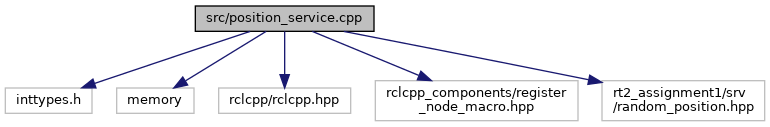
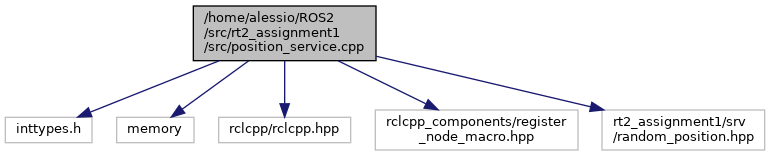
Update documentation

diff --git a/docs/html/state__machine_8cpp.html b/docs/html/state__machine_8cpp.html
@@ -5,7 +5,7 @@
 <meta http-equiv="X-UA-Compatible" content="IE=9"/>
 <meta name="generator" content="Doxygen 1.8.17"/>
 <meta name="viewport" content="width=device-width, initial-scale=1"/>
-<title>My Project: src/state_machine.cpp File Reference</title>
+<title>My Project: /home/alessio/ROS2/src/rt2_assignment1/src/state_machine.cpp File Reference</title>
 <link href="tabs.css" rel="stylesheet" type="text/css"/>
 <script type="text/javascript" src="jquery.js"></script>
 <script type="text/javascript" src="dynsections.js"></script>
@@ -89,21 +89,21 @@ $(function() {
 </div><div class="textblock"><div class="dynheader">
 Include dependency graph for state_machine.cpp:</div>
 <div class="dyncontent">
-<div class="center"><img src="state__machine_8cpp__incl.png" border="0" usemap="#src_2state__machine_8cpp" alt=""/></div>
-<map name="src_2state__machine_8cpp" id="src_2state__machine_8cpp">
-<area shape="rect" title="The state_machine node is a sort of the &quot;main&quot; in the entire architecture: it is connected with all t..." alt="" coords="511,5,679,32"/>
-<area shape="rect" title=" " alt="" coords="5,87,72,114"/>
-<area shape="rect" title=" " alt="" coords="97,87,183,114"/>
-<area shape="rect" title=" " alt="" coords="208,87,285,114"/>
-<area shape="rect" title=" " alt="" coords="310,87,397,114"/>
-<area shape="rect" title=" " alt="" coords="421,87,480,114"/>
-<area shape="rect" title=" " alt="" coords="504,87,587,114"/>
-<area shape="rect" title=" " alt="" coords="611,87,677,114"/>
-<area shape="rect" title=" " alt="" coords="701,87,833,114"/>
-<area shape="rect" title=" " alt="" coords="857,80,1060,121"/>
-<area shape="rect" title=" " alt="" coords="1084,80,1239,121"/>
-<area shape="rect" title=" " alt="" coords="1263,80,1417,121"/>
-<area shape="rect" title=" " alt="" coords="1441,80,1604,121"/>
+<div class="center"><img src="state__machine_8cpp__incl.png" border="0" usemap="#_2home_2alessio_2_r_o_s2_2src_2rt2__assignment1_2src_2state__machine_8cpp" alt=""/></div>
+<map name="_2home_2alessio_2_r_o_s2_2src_2rt2__assignment1_2src_2state__machine_8cpp" id="_2home_2alessio_2_r_o_s2_2src_2rt2__assignment1_2src_2state__machine_8cpp">
+<area shape="rect" title="The state_machine node is a sort of the &quot;main&quot; in the entire architecture: it is connected with all t..." alt="" coords="509,5,681,61"/>
+<area shape="rect" title=" " alt="" coords="5,117,72,143"/>
+<area shape="rect" title=" " alt="" coords="97,117,183,143"/>
+<area shape="rect" title=" " alt="" coords="208,117,285,143"/>
+<area shape="rect" title=" " alt="" coords="310,117,397,143"/>
+<area shape="rect" title=" " alt="" coords="421,117,480,143"/>
+<area shape="rect" title=" " alt="" coords="504,117,587,143"/>
+<area shape="rect" title=" " alt="" coords="611,117,677,143"/>
+<area shape="rect" title=" " alt="" coords="701,117,833,143"/>
+<area shape="rect" title=" " alt="" coords="857,109,1060,151"/>
+<area shape="rect" title=" " alt="" coords="1084,109,1239,151"/>
+<area shape="rect" title=" " alt="" coords="1263,109,1417,151"/>
+<area shape="rect" title=" " alt="" coords="1441,109,1604,151"/>
 </map>
 </div>
 </div><table class="memberdecls">

diff --git a/docs/html/position__service_8cpp.html b/docs/html/position__service_8cpp.html
@@ -5,7 +5,7 @@
 <meta http-equiv="X-UA-Compatible" content="IE=9"/>
 <meta name="generator" content="Doxygen 1.8.17"/>
 <meta name="viewport" content="width=device-width, initial-scale=1"/>
-<title>My Project: src/position_service.cpp File Reference</title>
+<title>My Project: /home/alessio/ROS2/src/rt2_assignment1/src/position_service.cpp File Reference</title>
 <link href="tabs.css" rel="stylesheet" type="text/css"/>
 <script type="text/javascript" src="jquery.js"></script>
 <script type="text/javascript" src="dynsections.js"></script>
@@ -82,14 +82,14 @@ $(function() {
 </div><div class="textblock"><div class="dynheader">
 Include dependency graph for position_service.cpp:</div>
 <div class="dyncontent">
-<div class="center"><img src="position__service_8cpp__incl.png" border="0" usemap="#src_2position__service_8cpp" alt=""/></div>
-<map name="src_2position__service_8cpp" id="src_2position__service_8cpp">
-<area shape="rect" title="The position_service.cpp provides a server that generates random positions in x, y,..." alt="" coords="195,5,374,32"/>
-<area shape="rect" title=" " alt="" coords="5,87,92,114"/>
-<area shape="rect" title=" " alt="" coords="117,87,194,114"/>
-<area shape="rect" title=" " alt="" coords="219,87,351,114"/>
-<area shape="rect" title=" " alt="" coords="375,80,578,121"/>
-<area shape="rect" title=" " alt="" coords="602,80,765,121"/>
+<div class="center"><img src="position__service_8cpp__incl.png" border="0" usemap="#_2home_2alessio_2_r_o_s2_2src_2rt2__assignment1_2src_2position__service_8cpp" alt=""/></div>
+<map name="_2home_2alessio_2_r_o_s2_2src_2rt2__assignment1_2src_2position__service_8cpp" id="_2home_2alessio_2_r_o_s2_2src_2rt2__assignment1_2src_2position__service_8cpp">
+<area shape="rect" title="The position_service.cpp provides a server that generates random positions in x, y,..." alt="" coords="193,5,376,61"/>
+<area shape="rect" title=" " alt="" coords="5,117,92,143"/>
+<area shape="rect" title=" " alt="" coords="117,117,194,143"/>
+<area shape="rect" title=" " alt="" coords="219,117,351,143"/>
+<area shape="rect" title=" " alt="" coords="375,109,578,151"/>
+<area shape="rect" title=" " alt="" coords="602,109,765,151"/>
 </map>
 </div>
 </div><table class="memberdecls">

diff --git a/docs/html/pages.html b/docs/html/pages.html
@@ -67,7 +67,7 @@ $(function() {
 <div class="contents">
 <div class="textblock">Here is a list of all related documentation pages:</div><div class="directory">
 <table class="directory">
-<tr id="row_0_" class="even"><td class="entry"><span style="width:16px;display:inline-block;">&#160;</span><a class="el" href="md__r_e_a_d_m_e.html" target="_self">First Assignment of the Research Track 2 course (action branch), Alessio Roda 4458313</a></td><td class="desc"></td></tr>
+<tr id="row_0_" class="even"><td class="entry"><span style="width:16px;display:inline-block;">&#160;</span><a class="el" href="md__home_alessio__r_o_s2_src_rt2_assignment1__r_e_a_d_m_e.html" target="_self">First Assignment of the Research Track 2 course (action branch), Alessio Roda 4458313</a></td><td class="desc"></td></tr>
 </table>
 </div><!-- directory -->
 </div><!-- contents -->

diff --git a/docs/html/search/pages_0.js b/docs/html/search/pages_0.js
@@ -1,4 +1,4 @@
 var searchData=
 [
-  ['first_20assignment_20of_20the_20research_20track_202_20course_20_28action_20branch_29_2c_20alessio_20roda_204458313_13',['First Assignment of the Research Track 2 course (action branch), Alessio Roda 4458313',['../md__r_e_a_d_m_e.html',1,'']]]
+  ['first_20assignment_20of_20the_20research_20track_202_20course_20_28action_20branch_29_2c_20alessio_20roda_204458313_13',['First Assignment of the Research Track 2 course (action branch), Alessio Roda 4458313',['../md__home_alessio__r_o_s2_src_rt2_assignment1__r_e_a_d_m_e.html',1,'']]]
 ];

diff --git a/docs/html/search/all_0.js b/docs/html/search/all_0.js
@@ -1,4 +1,4 @@
 var searchData=
 [
-  ['first_20assignment_20of_20the_20research_20track_202_20course_20_28action_20branch_29_2c_20alessio_20roda_204458313_0',['First Assignment of the Research Track 2 course (action branch), Alessio Roda 4458313',['../md__r_e_a_d_m_e.html',1,'']]]
+  ['first_20assignment_20of_20the_20research_20track_202_20course_20_28action_20branch_29_2c_20alessio_20roda_204458313_0',['First Assignment of the Research Track 2 course (action branch), Alessio Roda 4458313',['../md__home_alessio__r_o_s2_src_rt2_assignment1__r_e_a_d_m_e.html',1,'']]]
 ];

diff --git a/docs/html/dir_81025302fd592f43a2d7c4fbb7eea7b8.html b/docs/html/dir_81025302fd592f43a2d7c4fbb7eea7b8.html
@@ -5,7 +5,7 @@
 <meta http-equiv="X-UA-Compatible" content="IE=9"/>
 <meta name="generator" content="Doxygen 1.8.17"/>
 <meta name="viewport" content="width=device-width, initial-scale=1"/>
-<title>My Project: launch Directory Reference</title>
+<title>My Project: /home/alessio/ROS2/src/rt2_assignment1/launch Directory Reference</title>
 <link href="tabs.css" rel="stylesheet" type="text/css"/>
 <script type="text/javascript" src="jquery.js"></script>
 <script type="text/javascript" src="dynsections.js"></script>

diff --git a/docs/html/dir_68267d1309a1af8e8297ef4c3efbcdba.html b/docs/html/dir_68267d1309a1af8e8297ef4c3efbcdba.html
@@ -5,7 +5,7 @@
 <meta http-equiv="X-UA-Compatible" content="IE=9"/>
 <meta name="generator" content="Doxygen 1.8.17"/>
 <meta name="viewport" content="width=device-width, initial-scale=1"/>
-<title>My Project: src Directory Reference</title>
+<title>My Project: /home/alessio/ROS2/src/rt2_assignment1/src Directory Reference</title>
 <link href="tabs.css" rel="stylesheet" type="text/css"/>
 <script type="text/javascript" src="jquery.js"></script>
 <script type="text/javascript" src="dynsections.js"></script>

diff --git a/docs/html/classrt2__assignment1_1_1_random_server.html b/docs/html/classrt2__assignment1_1_1_random_server.html
@@ -126,7 +126,7 @@ Public Member Functions</h2></td></tr>
 </div>
 </div>
 <hr/>The documentation for this class was generated from the following file:<ul>
-<li>src/<a class="el" href="position__service_8cpp.html">position_service.cpp</a></li>
+<li>/home/alessio/ROS2/src/rt2_assignment1/src/<a class="el" href="position__service_8cpp.html">position_service.cpp</a></li>
 </ul>
 </div><!-- contents -->
 <!-- start footer part -->

diff --git a/docs/html/classrt2__assignment1_1_1_state_machine.html b/docs/html/classrt2__assignment1_1_1_state_machine.html
@@ -155,7 +155,7 @@ Public Member Functions</h2></td></tr>
 </div>
 </div>
 <hr/>The documentation for this class was generated from the following file:<ul>
-<li>src/<a class="el" href="state__machine_8cpp.html">state_machine.cpp</a></li>
+<li>/home/alessio/ROS2/src/rt2_assignment1/src/<a class="el" href="state__machine_8cpp.html">state_machine.cpp</a></li>
 </ul>
 </div><!-- contents -->
 <!-- start footer part -->

diff --git a/docs/latex/md__home_alessio__r_o_s2_src_rt2_assignment1__r_e_a_d_m_e.tex b/docs/latex/md__home_alessio__r_o_s2_src_rt2_assignment1__r_e_a_d_m_e.tex
@@ -1,6 +1,6 @@
 The purpose of this package is to create a simulation in which the robot follows some random positions generated by a random server and reach them. The robot can also stop if user order it, but only when it arrives in the last position that has to reach. In this branch respect to the main branch, the files \char`\"{}state\+\_\+machine.\+cpp\char`\"{} and \char`\"{}position\+\_\+service.\+cpp\char`\"{} are implemented as R\+O\+S2 component and the general architecture is divided in two parts\+: one developed with R\+O\+S2 component and the other one developed by maintaining the scripts of the main branch in R\+O\+S1. So by considering this, in order to run the code there will be an interaction between R\+O\+S1 and R\+O\+S2 that can be possible thanks to a \char`\"{}ros bridge\char`\"{}, if you haven\textquotesingle{}t installed it yet you can find the guide to download and install here\+: \href{https://github.com/ros2/ros1_bridge}{\texttt{ https\+://github.\+com/ros2/ros1\+\_\+bridge}}.
 
-Before start remember to download the rt2\+\_\+assignment1 main branch in your ros workspace, since as said before it\textquotesingle{}s necessary in order to run the code.~\hypertarget{md__r_e_a_d_m_e_autotoc_md1}{}\doxysection{Description of the architecture}\label{md__r_e_a_d_m_e_autotoc_md1}
+Before start remember to download the rt2\+\_\+assignment1 main branch in your ros workspace, since as said before it\textquotesingle{}s necessary in order to run the code.~\hypertarget{md__home_alessio__r_o_s2_src_rt2_assignment1__r_e_a_d_m_e_autotoc_md1}{}\doxysection{Description of the architecture}\label{md__home_alessio__r_o_s2_src_rt2_assignment1__r_e_a_d_m_e_autotoc_md1}
 ~ The code here was developed for ros2 foxy, so make sure that you have this distribution in your computer before start. This part of the architecture is based on two components\+: ~
 
 ~1) position\+\_\+service\+\_\+component generate a random position and send it with Random\+Position custom service message. ~\newline
@@ -28,9 +28,9 @@ The \char`\"{}srv\char`\"{} folder contains the Command.\+srv and Random\+Positi
 
 Finally \char`\"{}urdf\char`\"{} is a folder that contains the description of the robot we are using in the simulation.
 
-There are also the gazebo\+\_\+script.\+sh and mapping\+\_\+rules.\+yaml files, the first one is an executable to run the entire simulation, while the second one it\textquotesingle{}s necessary to compile the ros bridge in order to share the service custom messages between the two ros distributions.\hypertarget{md__r_e_a_d_m_e_autotoc_md2}{}\doxysection{Behaviour of the architecture}\label{md__r_e_a_d_m_e_autotoc_md2}
-As said before the entire architecture is based either in R\+O\+S2 and R\+O\+S1 code thanks to the ros bridge; the scope of the bridge is to share the custom server messages Random\+Service, Position and Command from the R\+O\+S2 distribution to the R\+O\+S1 one. For what regards the sharing of messages between the nodes and the components it\textquotesingle{}s similar to what happens in action branch.\hypertarget{md__r_e_a_d_m_e_autotoc_md3}{}\doxysection{How to run the code}\label{md__r_e_a_d_m_e_autotoc_md3}
-First before running the code make sure you have downloaded the ros bridge, you will have to compile it again in order to permit it to share the custom service messages. Once you have done this there are different ways to run the code\hypertarget{md__r_e_a_d_m_e_autotoc_md4}{}\doxysubsection{Run with gazeebo\+\_\+script.\+sh}\label{md__r_e_a_d_m_e_autotoc_md4}
+There are also the gazebo\+\_\+script.\+sh and mapping\+\_\+rules.\+yaml files, the first one is an executable to run the entire simulation, while the second one it\textquotesingle{}s necessary to compile the ros bridge in order to share the service custom messages between the two ros distributions.\hypertarget{md__home_alessio__r_o_s2_src_rt2_assignment1__r_e_a_d_m_e_autotoc_md2}{}\doxysection{Behaviour of the architecture}\label{md__home_alessio__r_o_s2_src_rt2_assignment1__r_e_a_d_m_e_autotoc_md2}
+As said before the entire architecture is based either in R\+O\+S2 and R\+O\+S1 code thanks to the ros bridge; the scope of the bridge is to share the custom server messages Random\+Service, Position and Command from the R\+O\+S2 distribution to the R\+O\+S1 one. For what regards the sharing of messages between the nodes and the components it\textquotesingle{}s similar to what happens in action branch.\hypertarget{md__home_alessio__r_o_s2_src_rt2_assignment1__r_e_a_d_m_e_autotoc_md3}{}\doxysection{How to run the code}\label{md__home_alessio__r_o_s2_src_rt2_assignment1__r_e_a_d_m_e_autotoc_md3}
+First before running the code make sure you have downloaded the ros bridge, you will have to compile it again in order to permit it to share the custom service messages. Once you have done this there are different ways to run the code\hypertarget{md__home_alessio__r_o_s2_src_rt2_assignment1__r_e_a_d_m_e_autotoc_md4}{}\doxysubsection{Run with gazeebo\+\_\+script.\+sh}\label{md__home_alessio__r_o_s2_src_rt2_assignment1__r_e_a_d_m_e_autotoc_md4}
 In this case you need to install gnome-\/terminal with
 
 
@@ -77,7 +77,7 @@ Now the only thing that you have to do in order to launch the entire simulation 
 \end{DoxyCode}
 
 
-Now three different terminals should have been opened and you can find the user terminal interface to move the robot in the first one.\hypertarget{md__r_e_a_d_m_e_autotoc_md5}{}\doxysubsection{Run by launching the nodes and the components via terminal}\label{md__r_e_a_d_m_e_autotoc_md5}
+Now three different terminals should have been opened and you can find the user terminal interface to move the robot in the first one.\hypertarget{md__home_alessio__r_o_s2_src_rt2_assignment1__r_e_a_d_m_e_autotoc_md5}{}\doxysubsection{Run by launching the nodes and the components via terminal}\label{md__home_alessio__r_o_s2_src_rt2_assignment1__r_e_a_d_m_e_autotoc_md5}
 To run the simulation without launching the file you can create a terminal in your\+\_\+ros1\+\_\+workspace and configure it with ros1, then type~
 
 

diff --git a/docs/latex/files.tex b/docs/latex/files.tex
@@ -1,5 +1,5 @@
 \doxysection{File List}
 Here is a list of all documented files with brief descriptions\+:\begin{DoxyCompactList}
-\item\contentsline{section}{src/\mbox{\hyperlink{position__service_8cpp}{position\+\_\+service.\+cpp}} \\*The \mbox{\hyperlink{position__service_8cpp}{position\+\_\+service.\+cpp}} provides a server that generates random positions in x, y, theta coordinates. These informations are setted in a Random\+Position custom service message, that is shared between the position\+\_\+service\+\_\+component to the state\+\_\+machine\+\_\+component. Here the code is developed as a node component, by creating a class Random\+Server }{\pageref{position__service_8cpp}}{}
-\item\contentsline{section}{src/\mbox{\hyperlink{state__machine_8cpp}{state\+\_\+machine.\+cpp}} \\*The state\+\_\+machine node is a sort of the \char`\"{}main\char`\"{} in the entire architecture\+: it is connected with all the other nodes (/user\+\_\+interface, /position\+\_\+server and /go\+\_\+to\+\_\+point). The scope of this node is to get the command from the /user\+\_\+interface node via the Command server custom message. If the command is equal to \char`\"{}start\char`\"{}, steate\+\_\+machine node sends a request to the /position\+\_\+server node in order to get a random position in a defined interval. This position will be used to set the parameters for the position to reach via a Position service custom message that is sent to /go\+\_\+to\+\_\+point node which will move the robot. Then there\textquotesingle{}s a loop in which this node verify that command is not \char`\"{}start\char`\"{} anymore, in this case it stops sending new target position to the robot. The code is developped as a R\+O\+S2 component in order to load it in a rt2\+\_\+assignment1 container }{\pageref{state__machine_8cpp}}{}
+\item\contentsline{section}{/home/alessio/\+R\+O\+S2/src/rt2\+\_\+assignment1/src/\mbox{\hyperlink{position__service_8cpp}{position\+\_\+service.\+cpp}} \\*The \mbox{\hyperlink{position__service_8cpp}{position\+\_\+service.\+cpp}} provides a server that generates random positions in x, y, theta coordinates. These informations are setted in a Random\+Position custom service message, that is shared between the position\+\_\+service\+\_\+component to the state\+\_\+machine\+\_\+component. Here the code is developed as a node component, by creating a class Random\+Server }{\pageref{position__service_8cpp}}{}
+\item\contentsline{section}{/home/alessio/\+R\+O\+S2/src/rt2\+\_\+assignment1/src/\mbox{\hyperlink{state__machine_8cpp}{state\+\_\+machine.\+cpp}} \\*The state\+\_\+machine node is a sort of the \char`\"{}main\char`\"{} in the entire architecture\+: it is connected with all the other nodes (/user\+\_\+interface, /position\+\_\+server and /go\+\_\+to\+\_\+point). The scope of this node is to get the command from the /user\+\_\+interface node via the Command server custom message. If the command is equal to \char`\"{}start\char`\"{}, steate\+\_\+machine node sends a request to the /position\+\_\+server node in order to get a random position in a defined interval. This position will be used to set the parameters for the position to reach via a Position service custom message that is sent to /go\+\_\+to\+\_\+point node which will move the robot. Then there\textquotesingle{}s a loop in which this node verify that command is not \char`\"{}start\char`\"{} anymore, in this case it stops sending new target position to the robot. The code is developped as a R\+O\+S2 component in order to load it in a rt2\+\_\+assignment1 container }{\pageref{state__machine_8cpp}}{}
 \end{DoxyCompactList}
